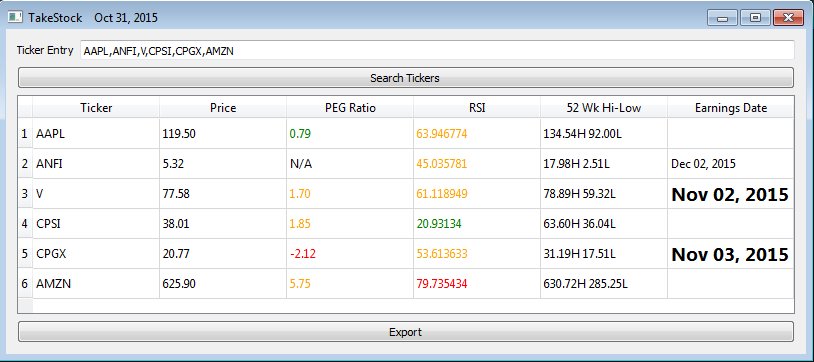
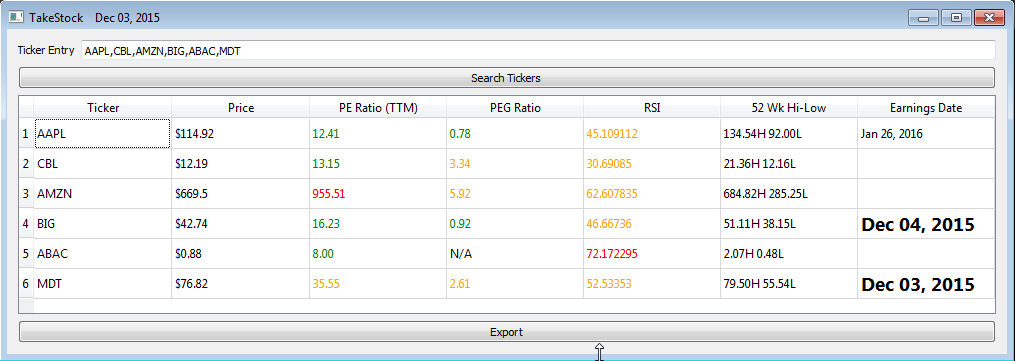
Add support for PE

diff --git a/TakeStock_Reporter.py b/TakeStock_Reporter.py
@@ -17,6 +17,7 @@ def main():
     global smtp
     global port
     global verbose
+    global pe_ratio
     global peg_ratio
     global rsi
     global fifty_two
@@ -28,6 +29,7 @@ def main():
     port = None
     tickers = None
     verbose = False
+    pe_ratio = False
     peg_ratio = False
     rsi = False
     fifty_two = False
@@ -37,9 +39,9 @@ def main():
 
     # Read the commandline options
     try:
-        opts, args = getopt.getopt(sys.argv[1:], "he:r:p:t:s:o:vgif", ['help', 'email_sender=', 'email_receiver=',
+        opts, args = getopt.getopt(sys.argv[1:], "he:r:p:t:s:o:vzgif", ['help', 'email_sender=', 'email_receiver=',
                                                                        'password=', 'tickers=' 'smtp=', 'port=',
-                                                                       'verbose', 'growth', 'rsi', 'fifty_two'])
+                                                                       'verbose', 'pe', 'growth', 'rsi', 'fifty_two'])
     except getopt.GetoptError as err:
         print(str(err))
         usage()
@@ -61,6 +63,8 @@ def main():
             port = a
         elif o in ('-v', '--verbose'):
             verbose = True
+        elif o in ('-z', '--pe_ratio'):
+            pe_ratio = True
         elif o in ('-g', '--peg_ratio'):
             peg_ratio = True
         elif o in ('-i', '--rsi'):
@@ -89,9 +93,10 @@ def usage():
             -s --smtp               - smtp server that sends the email report
             -t --port               - port for the smtp server
             -v --verbose            - print earnings date and price
+            -o --pe_ratio           - print pe ratio
             -g --peg_ratio          - print peg ratio
             -r --rsi                - print relative strength indicator
-            -f --fifty_two           - print fifty-two week high and low
+            -f --fifty_two          - print fifty-two week high and low
             \n\n
             Examples:
             TakeStock.py -e sender_email@your_domain.com -p sender_password -r email_recipient@recipient_domain.com -s smtp.gmail.com -p 587 -t 'AAPL,MSFT,AMT' -v
@@ -114,6 +119,8 @@ def get_results(tickers=None):
         string_to_line = ''
         if peg_ratio:
             string_header += '{:<13}'.format('Peg Ratio')
+        if pe_ratio:
+            string_header += '{:<13}'.format('PE Ratio')
         if rsi:
             string_header += '{:<13}'.format('RSI')
         if fifty_two:
@@ -124,6 +131,8 @@ def get_results(tickers=None):
             string_to_line = '{:<10}'.format(stock.ticker) + '{:<17}'.format(stock.earnings_date)
             if peg_ratio:
                 string_to_line += '{:<13}'.format(str(stock.peg_ratio))
+            if pe_ratio:
+                string_to_line += '{:<13}'.format(str(stock.pe_ratio))
             if rsi:
                 string_to_line += '{:<13}'.format(str(stock.rsi))
             if fifty_two:
@@ -189,5 +198,6 @@ else:
     # Running from GUI or other context
     verbose = True
     rsi = True
-    peg_ratio = True
     fifty_two = True
+    pe_ratio = True
+    peg_ratio = True

diff --git a/TakeStock.py b/TakeStock.py
@@ -40,7 +40,7 @@ class MyForm(QtGui.QWidget):
         self.connect(self.search_tickers_button, QtCore.SIGNAL("clicked()"), self.search_tickers_clicked)
         self.connect(self.export_button, QtCore.SIGNAL("clicked()"), self.export_clicked)
 
-        self.setGeometry(300, 300, 800, 325)
+        self.setGeometry(300, 300, 1000, 325)
         self.setWindowTitle('TakeStock    ' + datetime.date.today().strftime("%b %d, %Y"))
         self.show()
 
